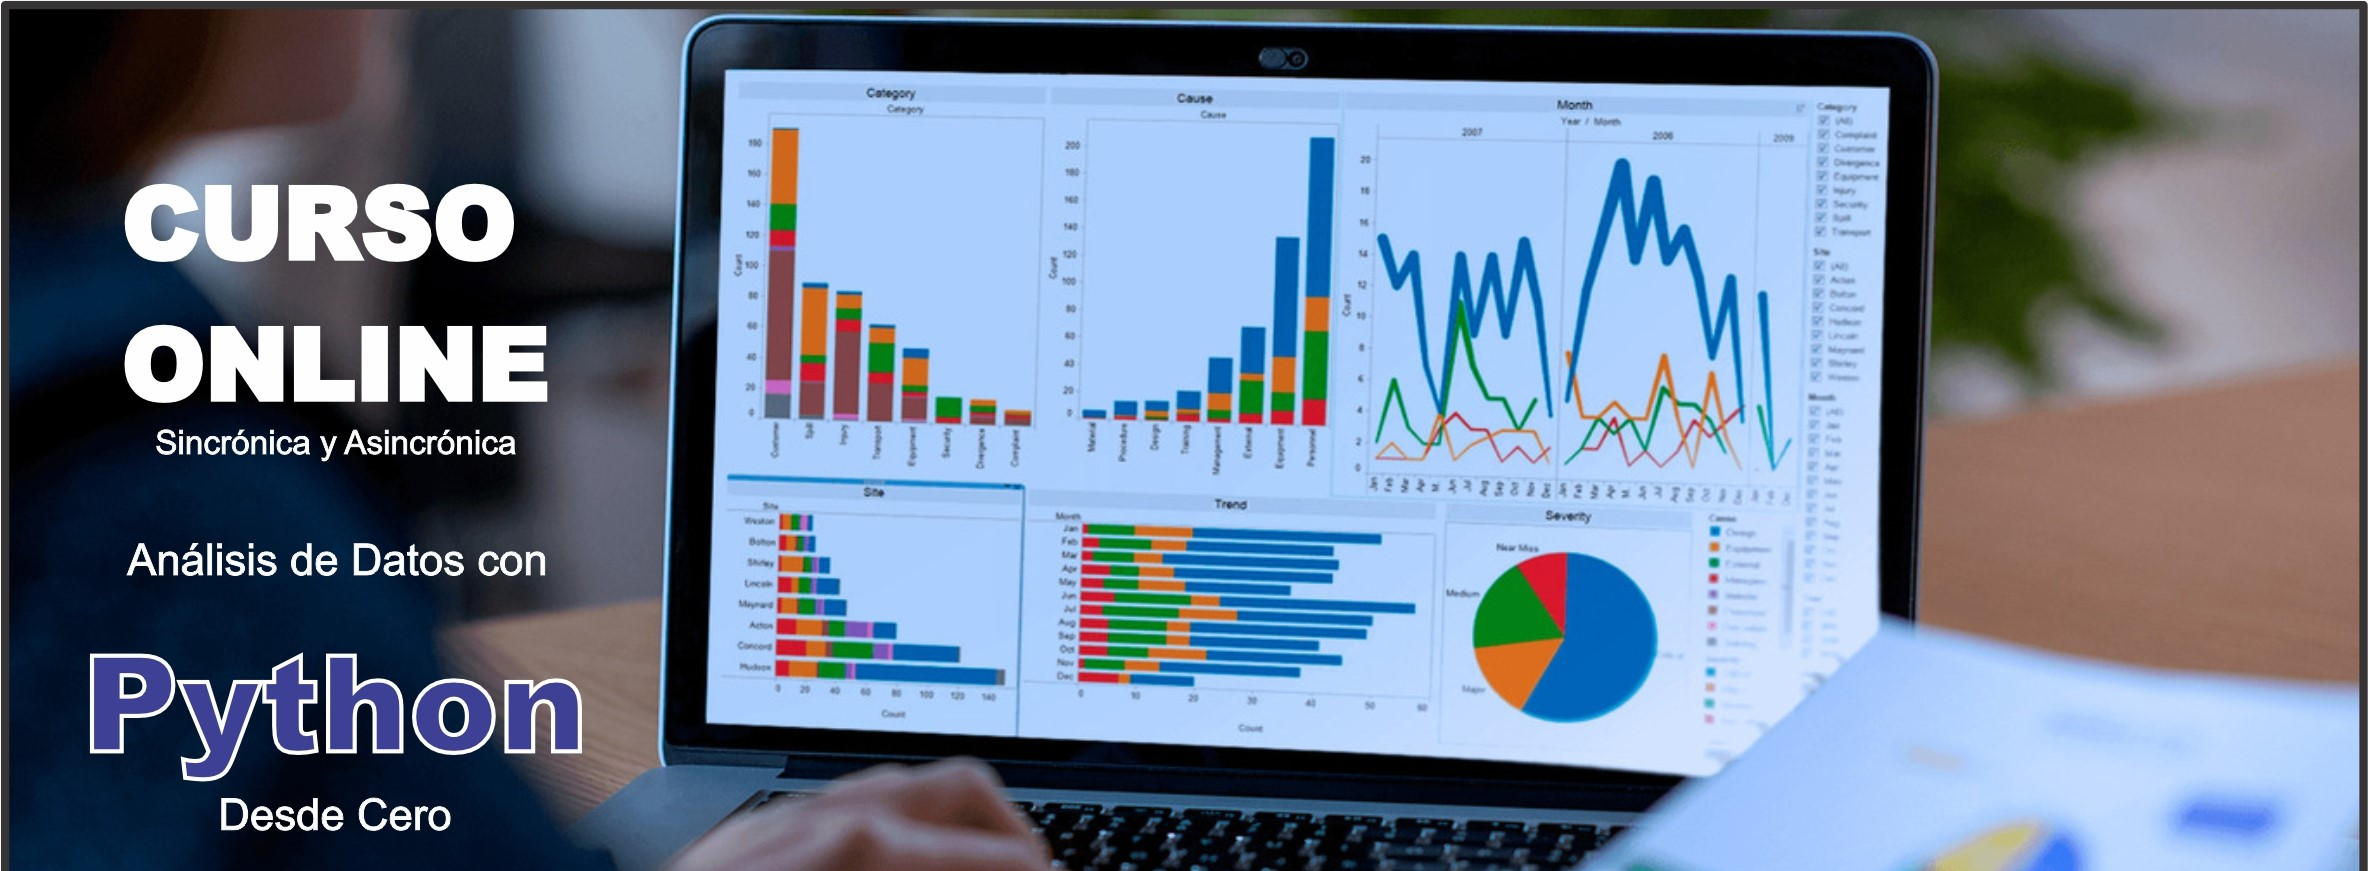
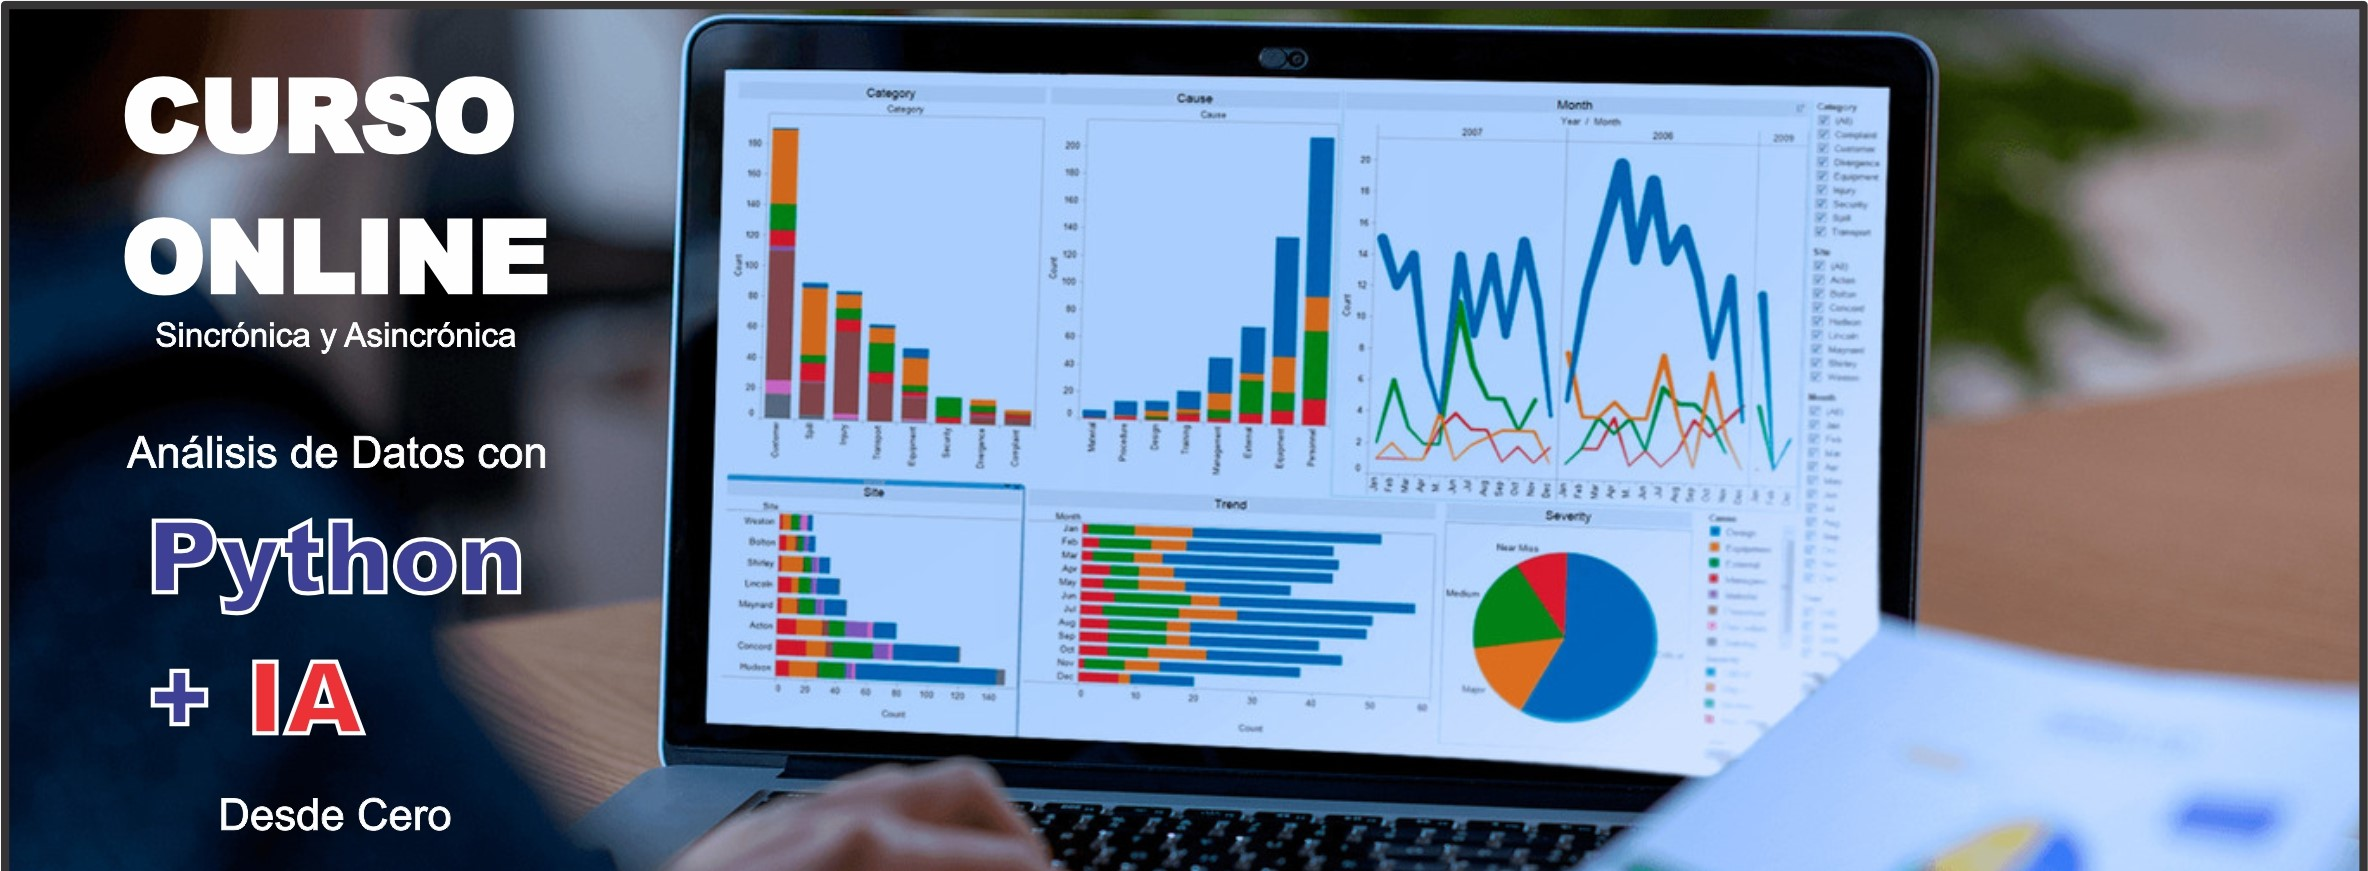
Add files via upload

diff --git a/index.html b/index.html
@@ -20,7 +20,7 @@
             max-width: 800px;
             margin: 0 auto;
         }
-        h1, h2 {
+        h1, h2, h3 {
             text-align: center;
             color: #007BFF;
         }
@@ -104,87 +104,96 @@
         <p><strong>DOCENTE:</strong> <a href="http://www.linkedin.com/in/oscar-gonzález-frutos-a74037148" target="_blank">Oscar González Frutos</a></p>
         
         <h2>Sesión 1: Introducción a Python y Herramientas para Análisis de Datos</h2>
+<ul>
+    <li><strong>Objetivos:</strong> Entender las bases de Python y cómo usarlo en análisis de datos. Configurar el entorno de trabajo con las bibliotecas necesarias, y aprender a usar IA para sugerir mejoras en los scripts.</li>
+    <li><strong>Temas:</strong>
         <ul>
-            <li><strong>Objetivos:</strong> Entender las bases de Python y cómo usarlo en análisis de datos. Configurar el entorno de trabajo con las bibliotecas necesarias.</li>
-            <li><strong>Temas:</strong>
-                <ul>
-                    <li>Breve repaso de Python: Tipos de datos, operadores, estructuras de control.</li>
-                    <li>Instalación de bibliotecas para análisis de datos: NumPy, Pandas, Matplotlib.</li>
-                    <li>Introducción a Jupyter Notebooks.</li>
-                </ul>
-            </li>
-            <li><strong>Ejercicio práctico:</strong> Instalar y configurar el entorno de trabajo (Jupyter Notebooks, NumPy, Pandas).</li>
+            <li>Breve repaso de Python: Tipos de datos, operadores, estructuras de control.</li>
+            <li>Instalación de bibliotecas para análisis de datos: NumPy, Pandas, Matplotlib.</li>
+            <li>Introducción a Jupyter Notebooks.</li>
+            <li><strong>Sugerencias de IA:</strong> Introducción a asistentes de código basados en IA, como GitHub Copilot o ChatGPT, para agilizar la escritura y depuración de código en Python.</li>
         </ul>
+    </li>
+    <li><strong>Ejercicio práctico:</strong> Instalar y configurar el entorno de trabajo (Jupyter Notebooks, NumPy, Pandas) y experimentar con asistentes de código.</li>
+</ul>
 
-        <h2>Sesión 2: Manipulación de Datos con Pandas</h2>
+<h2>Sesión 2: Manipulación de Datos con Pandas</h2>
+<ul>
+    <li><strong>Objetivos:</strong> Aprender a cargar, inspeccionar y manipular datasets con Pandas, y cómo usar IA para optimizar estos procesos.</li>
+    <li><strong>Temas:</strong>
         <ul>
-            <li><strong>Objetivos:</strong> Aprender a cargar, inspeccionar y manipular datasets con Pandas.</li>
-            <li><strong>Temas:</strong>
-                <ul>
-                    <li>Introducción a Pandas y su estructura fundamental: DataFrame.</li>
-                    <li>Lectura de archivos CSV, Excel, SQL, etc.</li>
-                    <li>Operaciones básicas: Selección de columnas y filas, filtros, descripciones estadísticas.</li>
-                    <li>Limpieza de datos: Manejo de valores nulos, duplicados y formateo de datos.</li>
-                </ul>
-            </li>
-            <li><strong>Ejercicio práctico:</strong> Cargar un dataset CSV y realizar análisis exploratorio (filtrado, resumen estadístico, limpieza).</li>
+            <li>Introducción a Pandas y su estructura fundamental: DataFrame.</li>
+            <li>Lectura de archivos CSV, Excel, SQL, etc.</li>
+            <li>Operaciones básicas: Selección de columnas y filas, filtros, descripciones estadísticas.</li>
+            <li>Limpieza de datos: Manejo de valores nulos, duplicados y formateo de datos.</li>
+            <li><strong>Sugerencias de IA:</strong> Uso de IA para generar y optimizar consultas de manipulación de datos en Pandas y sugerir mejores prácticas.</li>
         </ul>
+    </li>
+    <li><strong>Ejercicio práctico:</strong> Cargar un dataset CSV y realizar análisis exploratorio (filtrado, resumen estadístico, limpieza) con recomendaciones generadas por IA.</li>
+</ul>
 
-        <h2>Sesión 3: Análisis Numérico con NumPy</h2>
+<h2>Sesión 3: Análisis Numérico con NumPy</h2>
+<ul>
+    <li><strong>Objetivos:</strong> Trabajar con datos numéricos eficientemente usando NumPy y explorar cómo la IA puede ayudar en operaciones matemáticas complejas.</li>
+    <li><strong>Temas:</strong>
         <ul>
-            <li><strong>Objetivos:</strong> Trabajar con datos numéricos eficientemente usando NumPy.</li>
-            <li><strong>Temas:</strong>
-                <ul>
-                    <li>Introducción a NumPy: Arrays y sus ventajas.</li>
-                    <li>Operaciones matemáticas básicas y avanzadas con arrays.</li>
-                    <li>Estadísticas descriptivas con NumPy.</li>
-                    <li>Manipulación de arrays: Indexación, slicing, y transformaciones.</li>
-                </ul>
-            </li>
-            <li><strong>Ejercicio práctico:</strong> Crear arrays de datos numéricos y realizar operaciones estadísticas simples.</li>
+            <li>Introducción a NumPy: Arrays y sus ventajas.</li>
+            <li>Operaciones matemáticas básicas y avanzadas con arrays.</li>
+            <li>Estadísticas descriptivas con NumPy.</li>
+            <li>Manipulación de arrays: Indexación, slicing, y transformaciones.</li>
+            <li><strong>Sugerencias de IA:</strong> Utilización de IA para sugerir funciones numéricas y optimizar cálculos.</li>
         </ul>
+    </li>
+    <li><strong>Ejercicio práctico:</strong> Crear arrays de datos numéricos y realizar operaciones estadísticas simples con asistencia de IA para mejorar el rendimiento.</li>
+</ul>
 
-        <h2>Sesión 4: Visualización de Datos con Matplotlib y Seaborn</h2>
+<h2>Sesión 4: Visualización de Datos con Matplotlib y Seaborn</h2>
+<ul>
+    <li><strong>Objetivos:</strong> Visualizar y comunicar datos de manera efectiva, incorporando IA para sugerir los gráficos más adecuados.</li>
+    <li><strong>Temas:</strong>
         <ul>
-            <li><strong>Objetivos:</strong> Visualizar y comunicar datos de manera efectiva.</li>
-            <li><strong>Temas:</strong>
-                <ul>
-                    <li>Introducción a la visualización de datos: Importancia y tipos de gráficos.</li>
-                    <li>Creación de gráficos básicos con Matplotlib (líneas, barras, dispersión).</li>
-                    <li>Visualización avanzada con Seaborn: Mapas de calor, gráficos de distribución y box plots.</li>
-                    <li>Personalización de gráficos (etiquetas, colores, estilos).</li>
-                </ul>
-            </li>
-            <li><strong>Ejercicio práctico:</strong> Visualizar los datos de un dataset con gráficos de barras, líneas y dispersión, interpretando los resultados.</li>
+            <li>Introducción a la visualización de datos: Importancia y tipos de gráficos.</li>
+            <li>Creación de gráficos básicos con Matplotlib (líneas, barras, dispersión).</li>
+            <li>Visualización avanzada con Seaborn: Mapas de calor, gráficos de distribución y box plots.</li>
+            <li>Personalización de gráficos (etiquetas, colores, estilos).</li>
+            <li><strong>Sugerencias de IA:</strong> Uso de IA para analizar el dataset y sugerir los gráficos más relevantes para visualizar los datos.</li>
         </ul>
+    </li>
+    <li><strong>Ejercicio práctico:</strong> Visualizar los datos de un dataset con gráficos de barras, líneas y dispersión, interpretando los resultados con sugerencias de IA.</li>
+</ul>
 
-        <h2>Sesión 5: Análisis de Datos con Estadística Descriptiva</h2>
+<h2>Sesión 5: Análisis de Datos con Estadística Descriptiva</h2>
+<ul>
+    <li><strong>Objetivos:</strong> Realizar análisis descriptivo de datos para obtener insights, con la ayuda de IA para detectar patrones y correlaciones.</li>
+    <li><strong>Temas:</strong>
         <ul>
-            <li><strong>Objetivos:</strong> Realizar análisis descriptivo de datos para obtener insights.</li>
-            <li><strong>Temas:</strong>
-                <ul>
-                    <li>Introducción a la estadística descriptiva: Media, mediana, moda, desviación estándar.</li>
-                    <li>Agrupación y agregación de datos con Pandas.</li>
-                    <li>Identificación de correlaciones entre variables.</li>
-                    <li>Análisis de distribuciones.</li>
-                </ul>
-            </li>
-            <li><strong>Ejercicio práctico:</strong> Realizar un análisis estadístico descriptivo de un dataset para identificar patrones y tendencias.</li>
+            <li>Introducción a la estadística descriptiva: Media, mediana, moda, desviación estándar.</li>
+            <li>Agrupación y agregación de datos con Pandas.</li>
+            <li>Identificación de correlaciones entre variables.</li>
+            <li>Análisis de distribuciones.</li>
+            <li><strong>Sugerencias de IA:</strong> Emplear IA para detectar correlaciones y patrones no obvios, sugiriendo posibles análisis adicionales.</li>
         </ul>
+    </li>
+    <li><strong>Ejercicio práctico:</strong> Realizar un análisis estadístico descriptivo de un dataset, mejorado con las recomendaciones de IA.</li>
+</ul>
 
-        <h2>Sesión 6: Proyecto Final – Análisis Completo de un Dataset</h2>
+
+<h2>Sesión 6: Proyecto Final – Análisis Completo y Modelos Predictivos</h2>
+<ul>
+    <li><strong>Objetivos:</strong> Aplicar todo lo aprendido en un proyecto final, enfocándose en la creación de modelos predictivos (regresión y clasificación) y usando IA para optimizar el proceso.</li>
+    <li><strong>Temas:</strong>
         <ul>
-            <li><strong>Objetivos:</strong> Aplicar todo lo aprendido en un proyecto final.</li>
-            <li><strong>Temas:</strong>
-                <ul>
-                    <li>Carga y limpieza de un dataset.</li>
-                    <li>Exploración de los datos y análisis estadístico.</li>
-                    <li>Creación de visualizaciones para comunicar los resultados.</li>
-                    <li>Interpretación y presentación de insights clave.</li>
-                </ul>
-            </li>
-            <li><strong>Ejercicio práctico:</strong> Seleccionar un dataset y realizar un análisis completo, desde la limpieza de datos hasta la creación de gráficos y conclusiones.</li>
+            <li>Carga y limpieza de un dataset.</li>
+            <li>Exploración de los datos y análisis estadístico.</li>
+            <li>Creación de modelos de regresión y clasificación: Explicación de modelos básicos como regresión lineal y modelos de clasificación (Logistic Regression, Random Forest, etc.).</li>
+            <li>Realización de predicciones basadas en los modelos creados.</li>
+            <li>Interpretación y presentación de los resultados de los modelos.</li>
+            <li><strong>Sugerencias de IA:</strong> Usar IA para seleccionar los mejores modelos predictivos, ajustar hiperparámetros y optimizar la precisión de las predicciones.</li>
         </ul>
+    </li>
+    <li><strong>Ejercicio práctico:</strong> Seleccionar un dataset, limpiar los datos y crear un modelo predictivo (regresión o clasificación), realizar predicciones y optimizar el modelo con la ayuda de IA.</li>
+</ul>
+
 
         
     </div>
